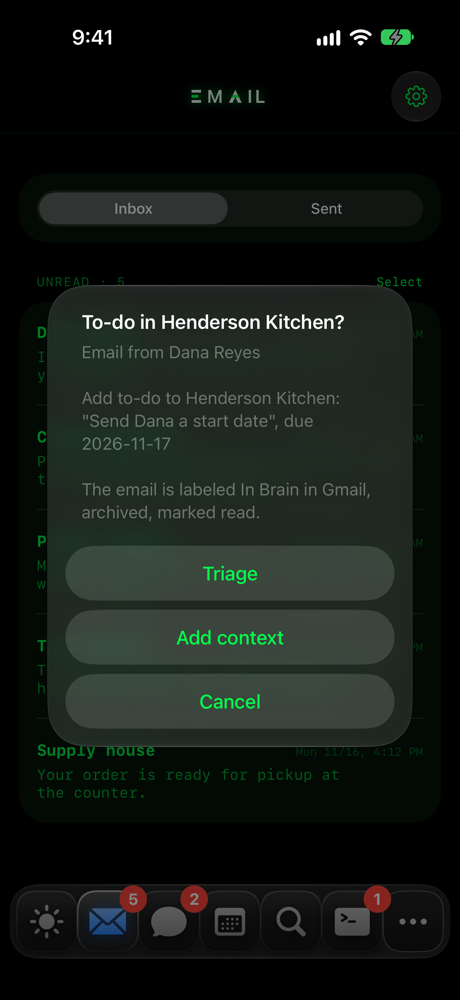
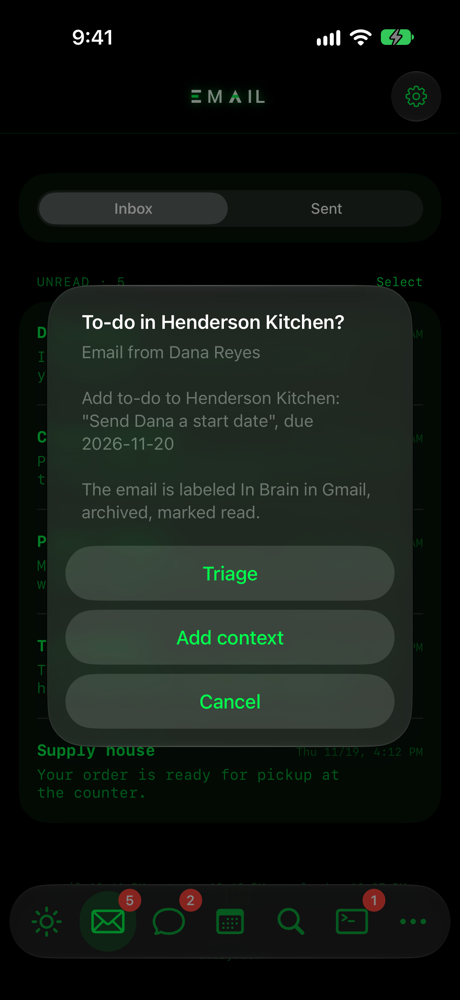
Retake the /map screenshots from the current FieldADE, dark.

diff --git a/scripts/fieldade-shots/README.md b/scripts/fieldade-shots/README.md
@@ -132,6 +132,8 @@ done
 
 ## System map shots (2026-11-17)
 
+Retake these after every FieldADE release with UI changes or a changed flow (JT, 2026-11-20). Shoot them in dark appearance, like the `/work` shots, and bump the `?v=` date on the `<img>` tags in `src/pages/map/index.astro` so phones drop the cached copies.
+
 - Extra hook in the copy's `MissionControlView.swift` `.onAppear`: `-demoTriage <n>` waits 4 s, then sets `billed` to the triage chip of email row n, which opens the plan confirm. `-demoSection` moved into the same `.onAppear` (it now also calls `openQuickNote(); checkConnectors()`).
 - `make-mission.py` email rows carry `plan`; the Dana plan's due date must equal the first Due item's date, or the triage and Today shots disagree.
 - Shots: `-demoSection email`, `-demoSection email -demoTriage 0`, `-demoSection today`; copy with `sips -z 1000 460` to `public/map/<name>[-dos].png`.
